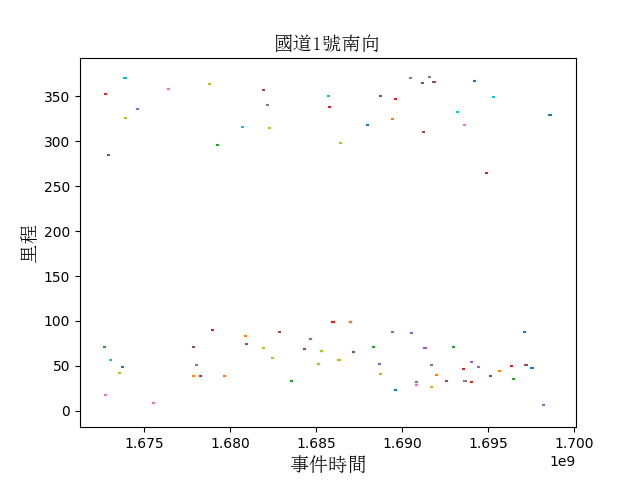
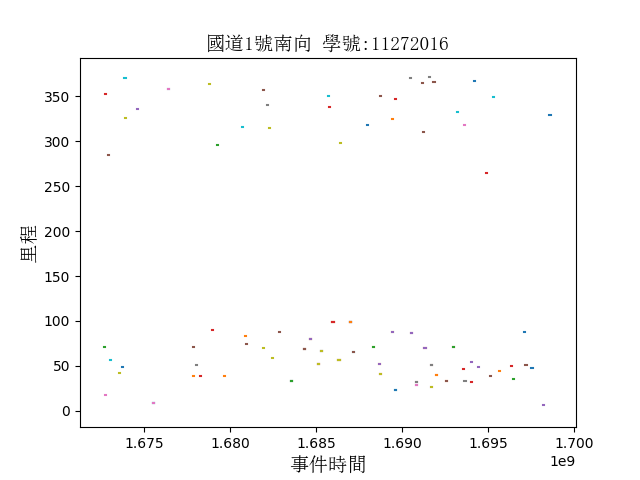
8點20更新

Changed region(s): [[0.3125, 0.0625, 0.7188, 0.125]]

diff --git a/20240312/11272016_2.py b/20240312/11272016_2.py
@@ -16,7 +16,7 @@ filepath = os.path.join(path ,excel_file)
 # 讀取 Excel 文件
 df = pd.read_excel(filepath, sheet_name='交通事故簡報通報資料')
 #篩選 欄位名稱 為'國道名稱'與'方向' 的資料， 我只要國道名稱為'國道3號'及方向為'南'及''南向'的資料
-df1 = df[(df['國道名稱'] == '國道3號') & (df['方向'].isin(['南', '南向']))]
+df1 = df[(df['國道名稱'] == '國道3號') & (df['方向'].isin(['北', '北向']))]
 
 #把 欄位 '年' '月' '日' '時' '分'
 #合併成一個欄位 '日期' , 並且轉換成日期格式
@@ -56,9 +56,9 @@ plt.xlabel('事件時間', fontproperties=font)
 plt.ylabel('里程', fontproperties=font)
 
 # 顯示標題為 '國道1號南' 的圖表
-plt.title('國道3號南向', fontproperties=font)
+plt.title('國道3號北向 學號:11272016', fontproperties=font)
 
 #匯出圖表，檔案名稱為"11272016_國道3號南.png"
-plt.savefig('11272016_國道3號南向.png')
+plt.savefig('11272016_國道3號北向.png')
 
 plt.show()
